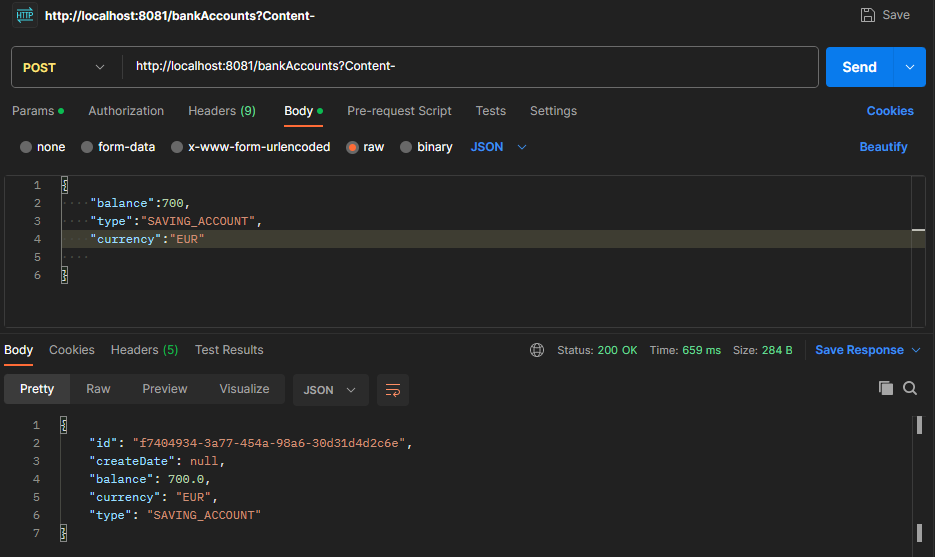
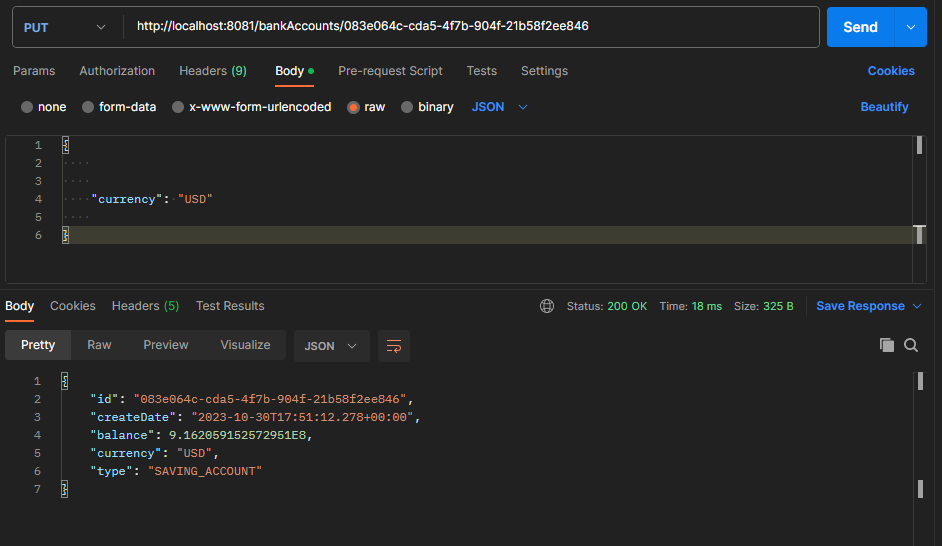
readme q7

diff --git a/src/main/java/org/iir/bankaccountservice/web/AccountRestController.java b/src/main/java/org/iir/bankaccountservice/web/AccountRestController.java
@@ -41,7 +41,7 @@ public class AccountRestController {
         if (bankAccount.getCreateDate()!=null) account.setCreateDate(new Date());
         if (bankAccount.getType()!=null) account.setType(bankAccount.getType());
         if (bankAccount.getCurrency()!=null) account.setCurrency(bankAccount.getCurrency());
-        return bankAccountRepository.save(bankAccount);
+        return bankAccountRepository.save(account);
     }
     @DeleteMapping("/bankAccounts/{id}")
     public void deleteAccount(@PathVariable String id){

diff --git a/src/main/java/org/iir/bankaccountservice/entities/AccountProjection.java b/src/main/java/org/iir/bankaccountservice/entities/AccountProjection.java
@@ -2,7 +2,7 @@ package org.iir.bankaccountservice.entities;
 
 import org.iir.bankaccountservice.enums.AccountType;
 import org.springframework.data.rest.core.config.Projection;
-@Projection(types = BankAccount.class , name ="p1")
+/*@Projection(types = BankAccount.class , name ="p1")
 
 public interface AccountProjection {
         public String getId();
@@ -11,4 +11,4 @@ public interface AccountProjection {
 
 
 
-}
+}*/

diff --git a/README.md b/README.md
@@ -30,13 +30,24 @@ Travail à réaliser  :
 ![ms](./captures/7.png)
 
 6. Tester le web micro-service en utilisant un client REST comme Postman
+#### Liste des comptes
 ![ms](./captures/8.png)
 
+#### Afficher un compte by l'id
 ![ms](./captures/9.png)
 
+#### Modifier un compte avec Put
 ![ms](./captures/10.png)
 
 7. Générer et tester le documentation Swagger de des API Rest du Web service
+#### On ajoute la dependance "SpringDoc OpenAPI UI" dans pom.xml
+![ms](./captures/11.png)
+
+#### La documentation Swagger
+![ms](./captures/12.png)
+###### la docummentation sous forme Json : L'interface du WebService elle contient:les paths, input,outpu
+![ms](./captures/13.png)
+
 8. Exposer une API Restful en utilisant Spring Data Rest en exploitant des projections
 9. Créer les DTOs et Mappers
 10. Créer la couche Service (métier) et du micro service
